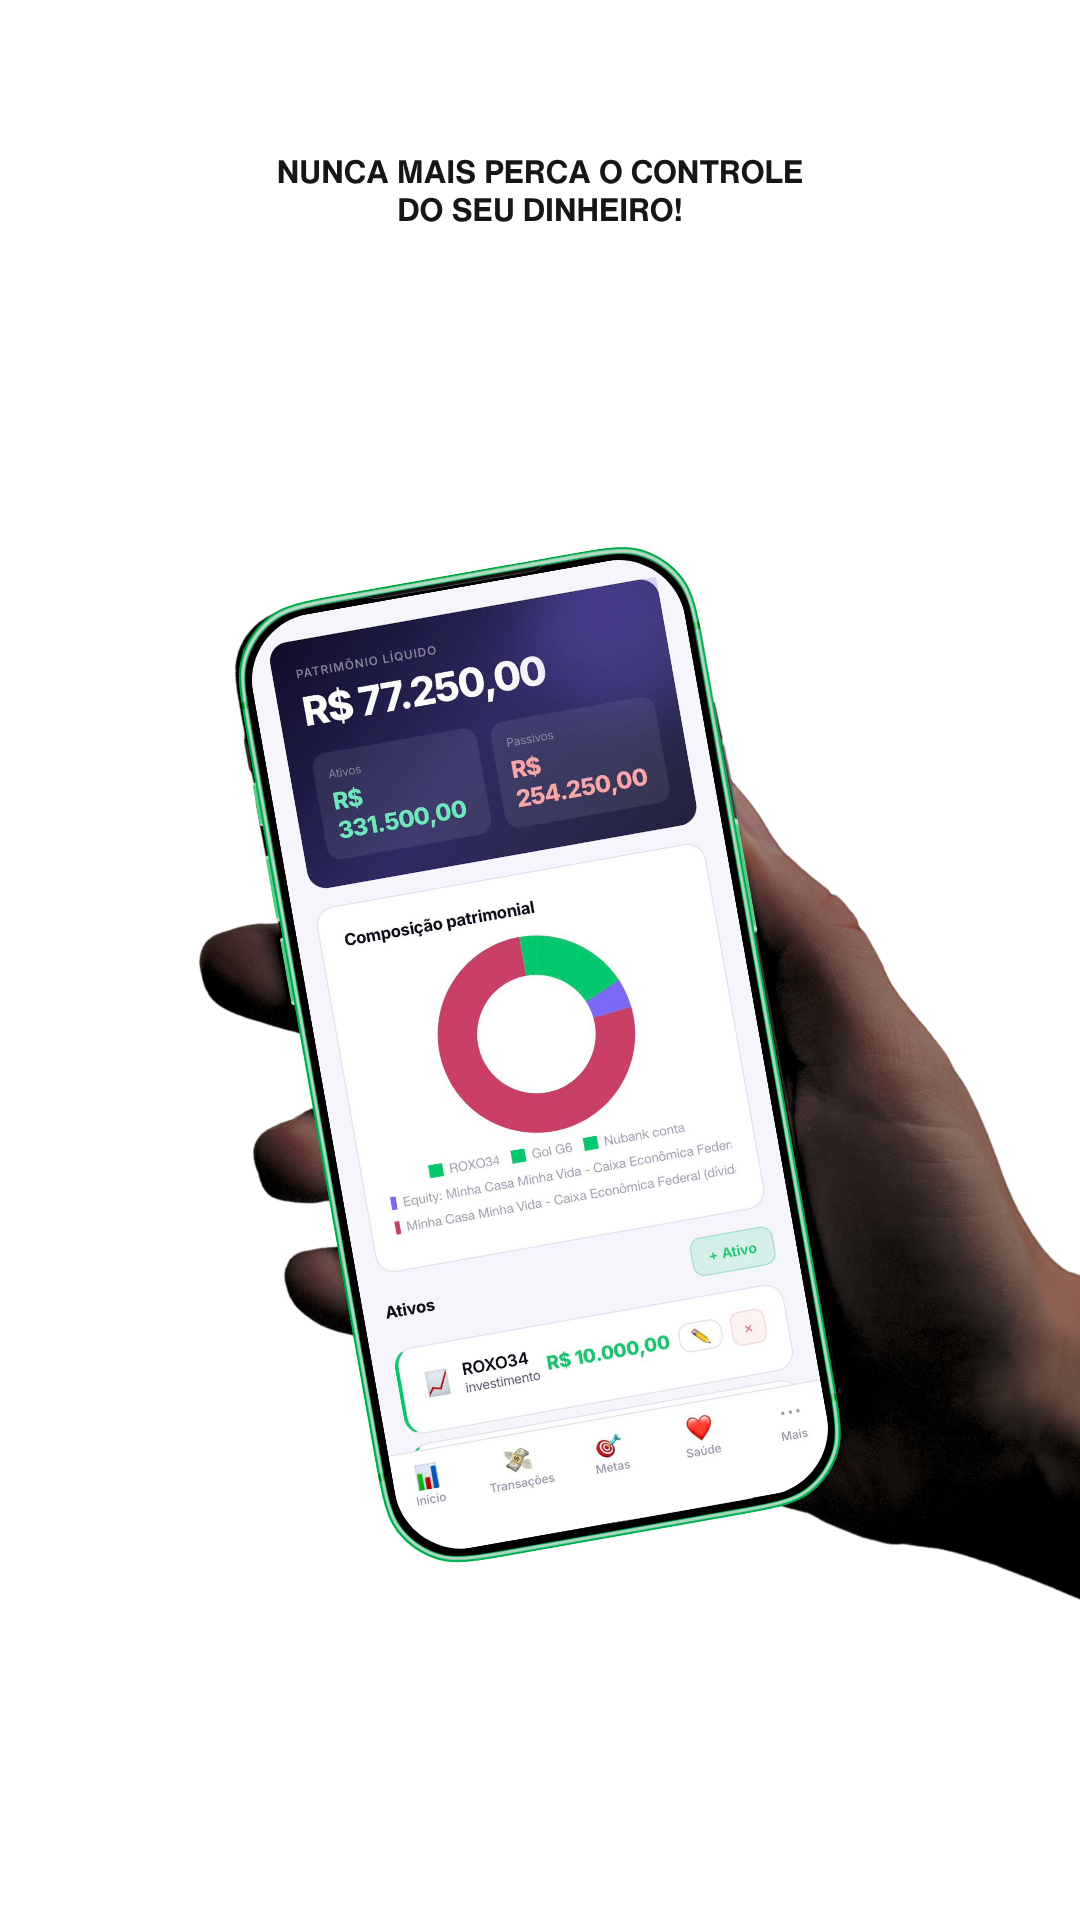
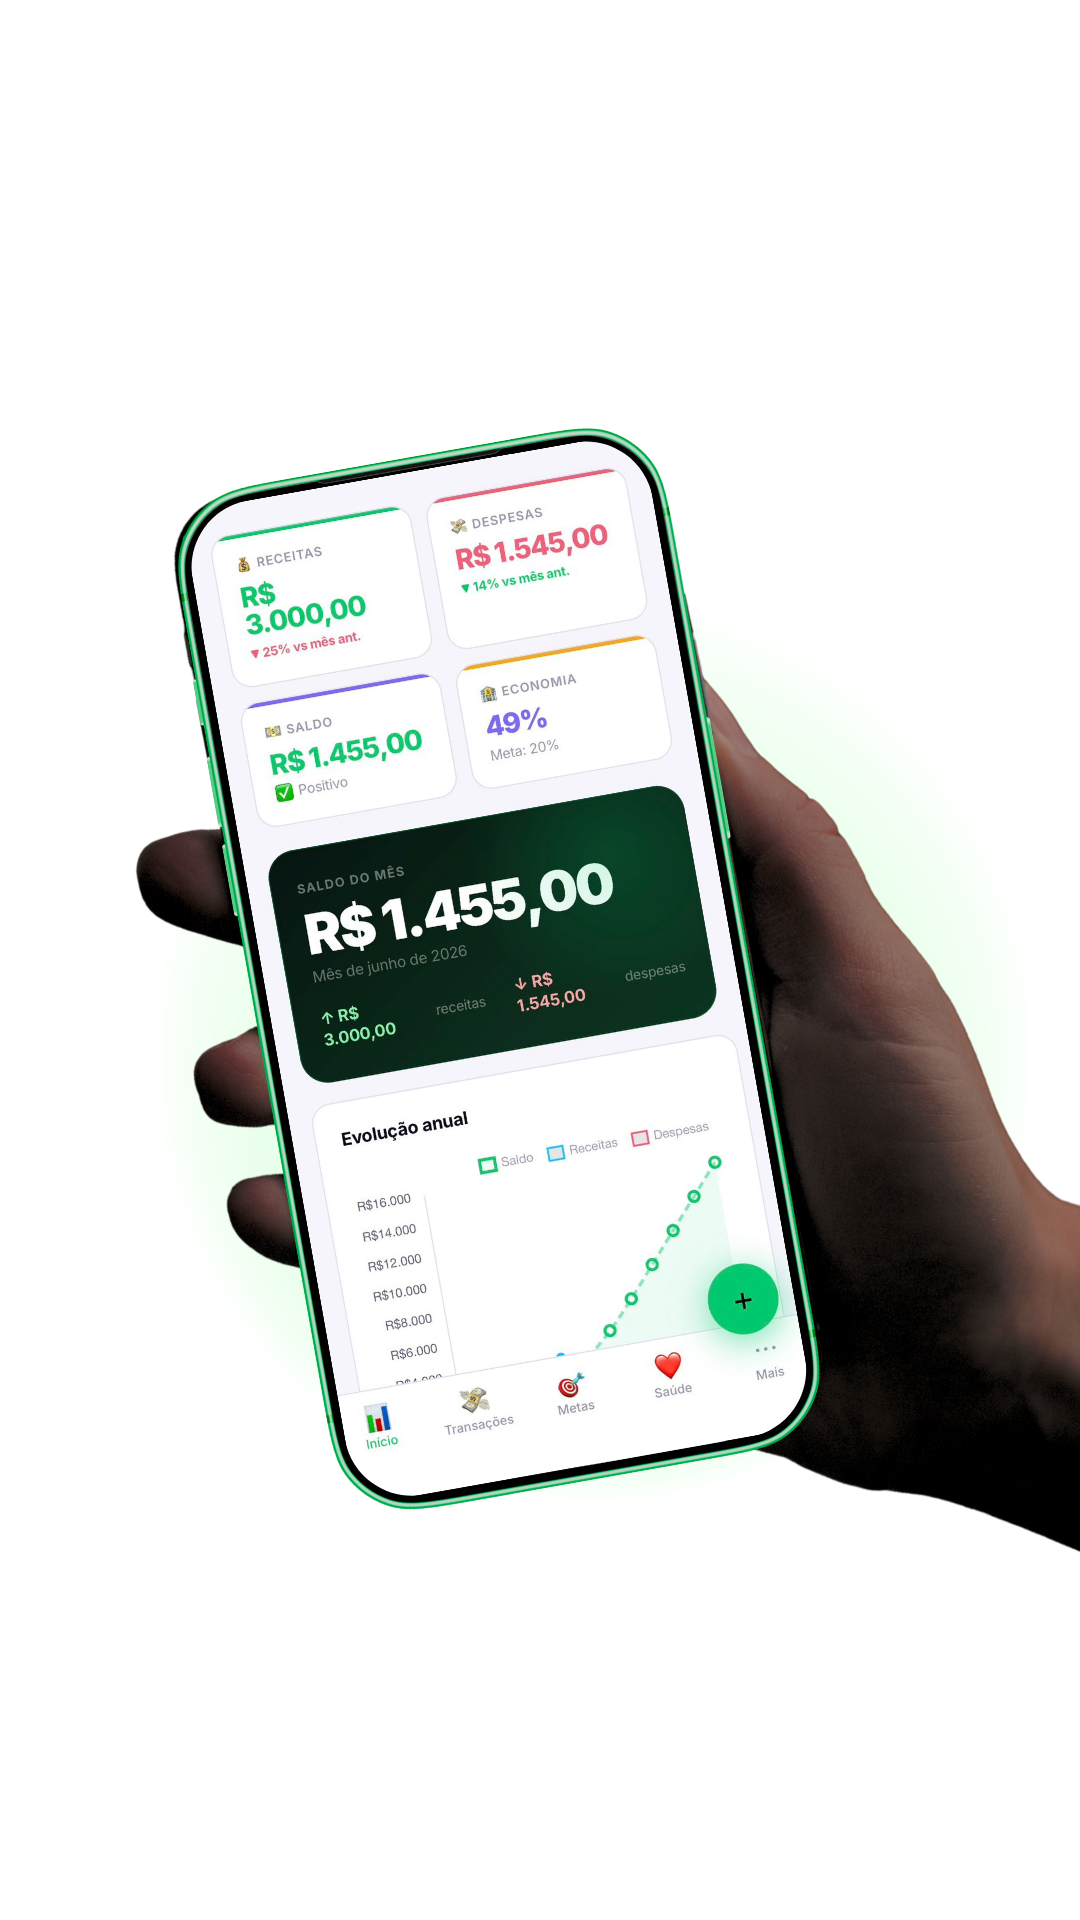
feat: novos mockups profissionais + seção alertas inteligentes
- s2: mão segurando cartões (fundo branco)
- s5: marketing com notificações do app
- s7: mão segurando no escuro (hero)
- Nova seção: alertas inteligentes usando s5.jpg

Changed region(s): [[0.1222, 0.2188, 1.0, 0.8438], [0.2444, 0.0625, 0.7333, 0.125]]

diff --git a/landing.html b/landing.html
@@ -475,6 +475,28 @@ footer{border-top:1px solid var(--border);background:var(--s1);}
   </div>
 </section>
 
+<!-- Feature Extra - Alertas inteligentes -->
+<section class="section section-dark">
+  <div class="section-inner">
+    <div class="feat-row reverse">
+      <div class="fade">
+        <div class="feat-tag"><div class="feat-tag-dot"></div>Alertas inteligentes</div>
+        <h2 class="feat-title">O app trabalha<br>enquanto você vive</h2>
+        <p class="feat-desc">O Dincon registra seus gastos e te avisa quando está chegando no limite do orçamento. Nada passa despercebido — você sempre sabe como está sua situação financeira.</p>
+        <ul class="feat-list">
+          <li><span class="icon">🔔</span>Alerta quando o orçamento está quase no limite</li>
+          <li><span class="icon">✅</span>Confirmação imediata de cada lançamento</li>
+          <li><span class="icon">📊</span>Percentual do orçamento gasto em tempo real</li>
+          <li><span class="icon">💡</span>Nunca mais seja pego de surpresa no fim do mês</li>
+        </ul>
+      </div>
+      <div class="feat-img-wrap fade fade-delay-1">
+        <img src="/screenshots/s5.jpg" alt="Alertas Dincon">
+      </div>
+    </div>
+  </div>
+</section>
+
 <!-- ═══ DEPOIMENTOS ═══ -->
 <section class="section section-darker">
   <div class="section-inner">
